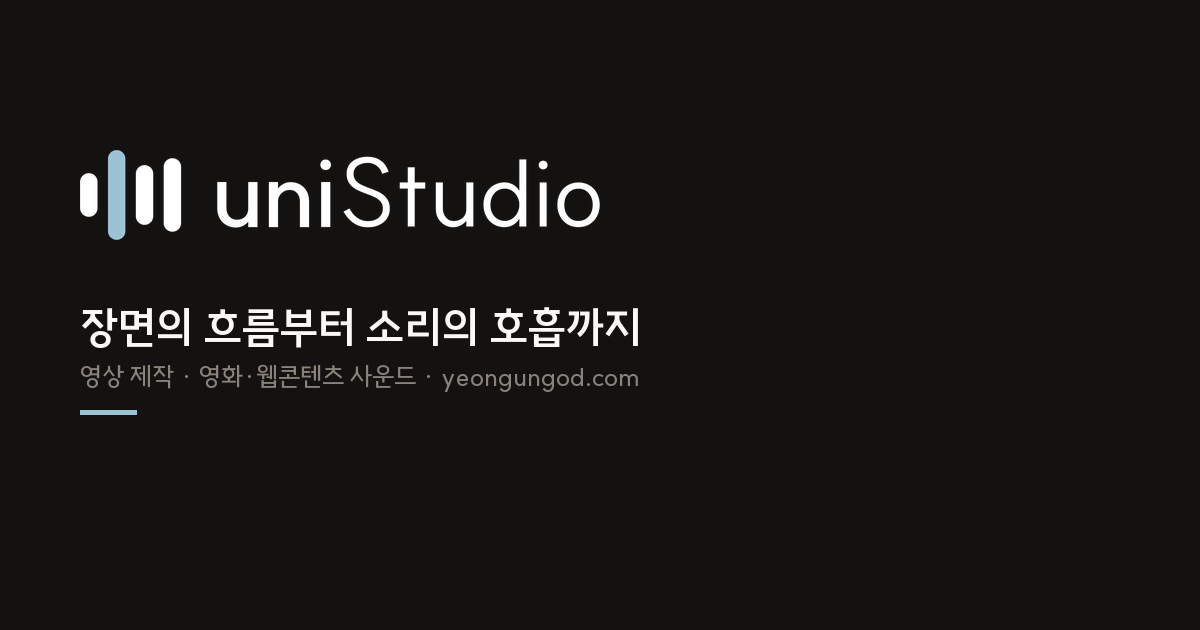
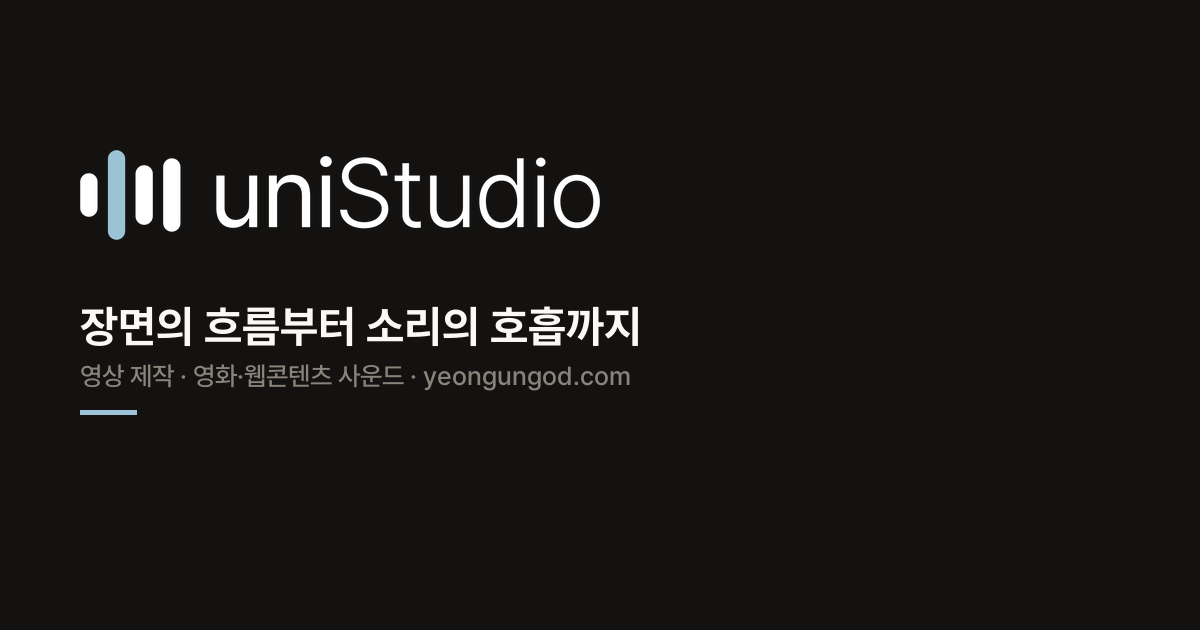
브랜드 로고 Pretendard 전환(lockup·og)
- public/lockup.svg·lockup-white.svg: 브랜드 완성본(Pretendard) 그대로 복사
- og.png: 새 로고 + 문구 서체 Pretendard로 재생성(make-og.py 서체 경로 2줄)

Claude-Session: https://claude.ai/code/session_01JK5Pggn42J4uKDZhpHFY9u

Changed region(s): [[0.0617, 0.4825, 0.5242, 0.6333], [0.185, 0.2413, 0.4933, 0.3619], [0.1233, 0.2714, 0.1542, 0.3619]]

diff --git a/scripts/make-og.py b/scripts/make-og.py
@@ -7,8 +7,8 @@ lw = 520; lh = int(lock.height * lw / lock.width)
 lock = lock.resize((lw, lh), Image.LANCZOS)
 im.paste(lock, (80, 150), lock)
 d = ImageDraw.Draw(im)
-f1 = ImageFont.truetype(r'C:\Windows\Fonts\SUITE-Bold.ttf', 44)
-f2 = ImageFont.truetype(r'C:\Windows\Fonts\SUITE-Medium.ttf', 26)
+f1 = ImageFont.truetype(r'C:\Windows\Fonts\Pretendard-Bold.otf', 44)
+f2 = ImageFont.truetype(r'C:\Windows\Fonts\Pretendard-Medium.otf', 26)
 d.text((80, 150 + lh + 60), '장면의 흐름부터 소리의 호흡까지', font=f1, fill='#FBF9F6')
 d.text((80, 150 + lh + 120), '영상 제작 · 영화·웹콘텐츠 사운드 · yeongungod.com', font=f2, fill='#8A837C')
 d.rectangle((80, 150 + lh + 170, 136, 150 + lh + 174), fill='#9CC3D5')
